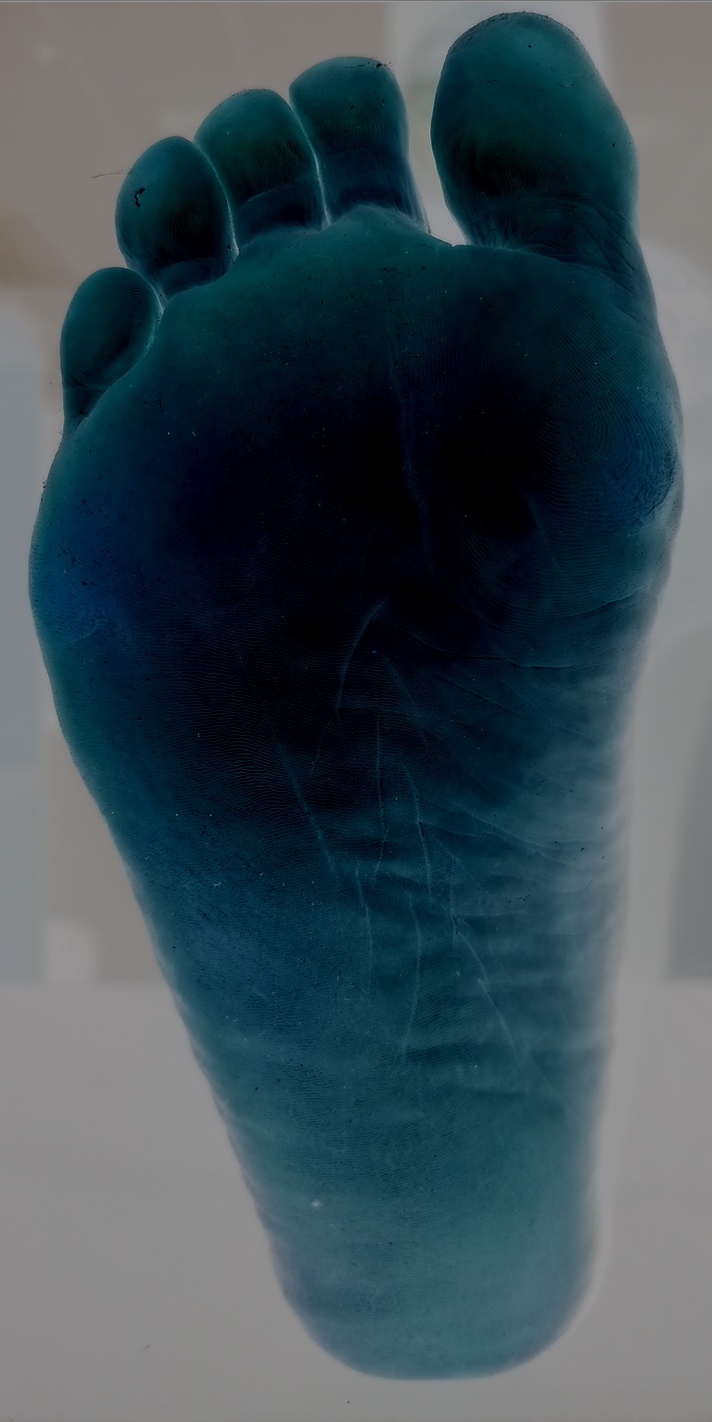
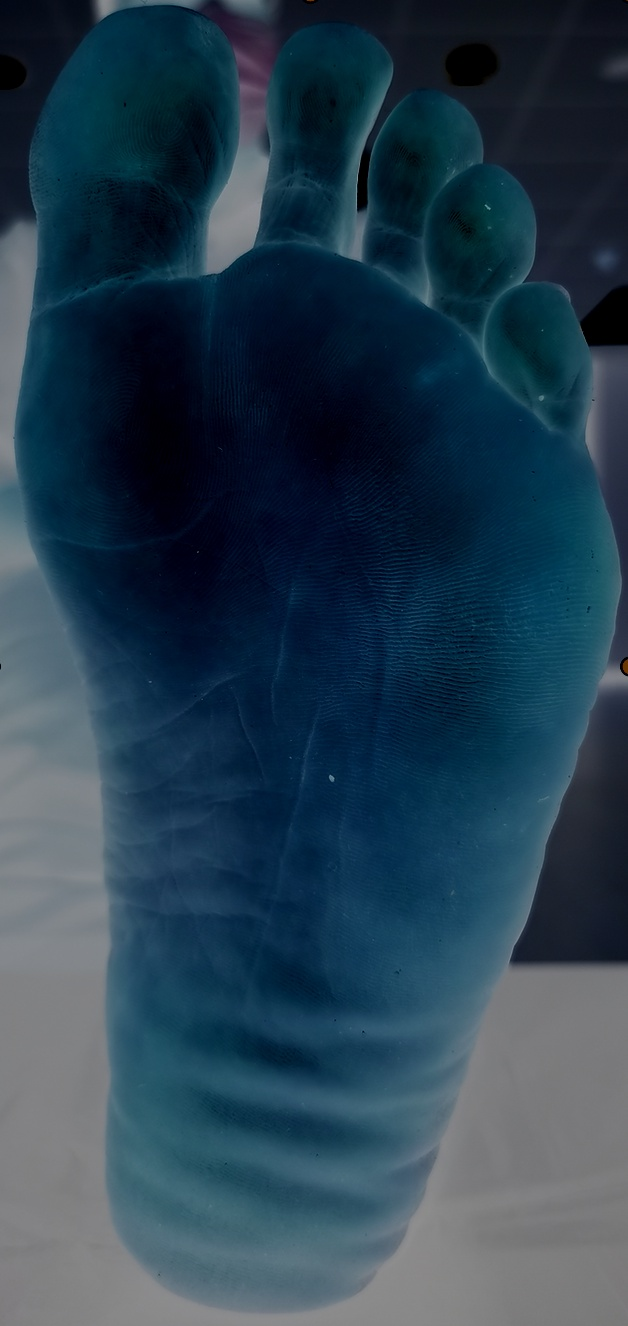
fix ver

diff --git a/src/BgRemoval.java b/src/BgRemoval.java
@@ -26,12 +26,21 @@ public class BgRemoval {
         Mat blur = new Mat();
         Imgproc.GaussianBlur(source, blur, new Size(27, 27), 10, 10, Core.BORDER_DEFAULT);
         Mat bright = new Mat(blur.rows(),blur.cols(), blur.type());
+        Mat bright1 = new Mat(blur.rows(),blur.cols(), blur.type());
         Mat bctest = new Mat();
+        Mat scharr = new Mat();
         source.convertTo(bright, 0, alpha, beta);
         Imgcodecs.imwrite("./brightness.jpg", bright);
-        Imgproc.Canny(bright, bctest, 20, 100, 3, false);
+        Imgproc.Scharr(bright, bctest, Imgproc.CV_SCHARR, 1, 0);
         bctest.convertTo(bright, CvType.CV_8UC3);
+        bctest.convertTo(bright1,0, -5, 200);
+        Imgcodecs.imwrite("./brightness11.jpg", bright1);
+//        Imgproc.Canny(scharr, bctest, 20, 100, 3, false);
+//        bctest.convertTo(scharr, CvType.CV_8UC3);
         Imgcodecs.imwrite("./bctest.jpg", bctest);
+
+        //add noise
+
 
         //HSV Image
         // threshold the image with the histogram average value
@@ -42,7 +51,7 @@ public class BgRemoval {
         Core.split(hsvImg, hsvPlanes);
         Imgcodecs.imwrite("./test.jpg", hsvImg);
 
-        double threshValue = this.getHistAverage(bright, hsvPlanes.get(0));
+        double threshValue = this.getHistAverage(bright1, hsvPlanes.get(0));
         // a new binary threshold
         Imgproc.threshold(hsvPlanes.get(0), thresholdImg, threshValue, 255, Imgproc.THRESH_BINARY_INV);
         Imgproc.blur(thresholdImg, thresholdImg, new Size(5, 5));
@@ -72,26 +81,26 @@ public class BgRemoval {
         return foreground;
     }
 
-    public Mat extractFoot(Mat image, String fileNameWithCompletePath, int xOne, int xTwo, int yOne, int yTwo) throws CvException {
-        System.loadLibrary(Core.NATIVE_LIBRARY_NAME);
-        Imgproc.cvtColor(image,image,Imgproc.COLOR_RGBA2RGB, 0);
-        Scalar co = new Scalar(0.0, 0.0, 0.0);
-        Size s = new Size(image.width(), image.height());
-        Rect rectangle = new Rect(xOne, yOne, xTwo, yTwo);
-        Mat result = new Mat();
-        Mat bgdModel = new Mat();
-        Mat fgdModel = new Mat();
-        Mat source = new Mat(1, 1, CvType.CV_8U, new Scalar(3));
-        Imgproc.grabCut(image, result, rectangle, bgdModel, fgdModel, 8, Imgproc.GC_INIT_WITH_RECT);
-        Core.compare(result, source, result, Core.CMP_EQ);
-        Mat foreground = new Mat(image.size(), CvType.CV_8UC3, new Scalar(0, 0, 0));
-        image.copyTo(foreground, result);
-        Imgcodecs.imwrite(fileNameWithCompletePath, foreground);
-        return foreground;
-    }
+//    public Mat extractFoot(Mat image, String fileNameWithCompletePath, int xOne, int xTwo, int yOne, int yTwo) throws CvException {
+//        System.loadLibrary(Core.NATIVE_LIBRARY_NAME);
+//        Imgproc.cvtColor(image,image,Imgproc.COLOR_RGBA2RGB, 0);
+//        Scalar co = new Scalar(0.0, 0.0, 0.0);
+//        Size s = new Size(image.width(), image.height());
+//        Rect rectangle = new Rect(xOne, yOne, xTwo, yTwo);
+//        Mat result = new Mat();
+//        Mat bgdModel = new Mat();
+//        Mat fgdModel = new Mat();
+//        Mat source = new Mat(1, 1, CvType.CV_8U, new Scalar(3));
+//        Imgproc.grabCut(image, result, rectangle, bgdModel, fgdModel, 8, Imgproc.GC_INIT_WITH_RECT);
+//        Core.compare(result, source, result, Core.CMP_EQ);
+//        Mat foreground = new Mat(image.size(), CvType.CV_8UC3, new Scalar(0, 0, 0));
+//        image.copyTo(foreground, result);
+//        Imgcodecs.imwrite(fileNameWithCompletePath, foreground);
+//        return foreground;
+//    }
 
     //Histogram
-    private double getHistAverage(Mat bright, Mat hueValues)
+    private double getHistAverage(Mat bright1, Mat hueValues)
     {
         // init
         double average = 0.0;
@@ -109,7 +118,7 @@ public class BgRemoval {
             average += (hist_hue.get(h, 0)[0] * h);
         }
 
-        return average = average / bright.size().height / bright.size().width;
+        return average = average / bright1.size().height / bright1.size().width;
     }
 
 

diff --git a/src/main.java b/src/main.java
@@ -15,7 +15,7 @@ class Test {
 
         //Loading the OpenCV core library
         System.loadLibrary(Core.NATIVE_LIBRARY_NAME);
-        String input = "./no4.jpg";
+        String input = "./left_sole.jpg";
 
         // To Read the image
         Mat source = Imgcodecs.imread(input);
@@ -26,9 +26,10 @@ class Test {
 
 //        //Call bg removal class
         BgRemoval b = new BgRemoval();
-        Mat graph = b.extractFoot(source, "./gg.jpg", 0, 712, 0, 1420);
-        b.doBackgroundRemoval(graph);
-//        b.detectEdge(source);
+//        Mat graph = b.extractFoot(source, "./gg.jpg", 0, 674, 0, 1350);
+//        b.doBackgroundRemoval(graph);
+        b.doBackgroundRemoval(source);
+        b.detectEdge(source);
 
 //        Mat test = new Mat();
 //        Mat wide_test = new Mat(source.rows(),source.cols(),source.type());
